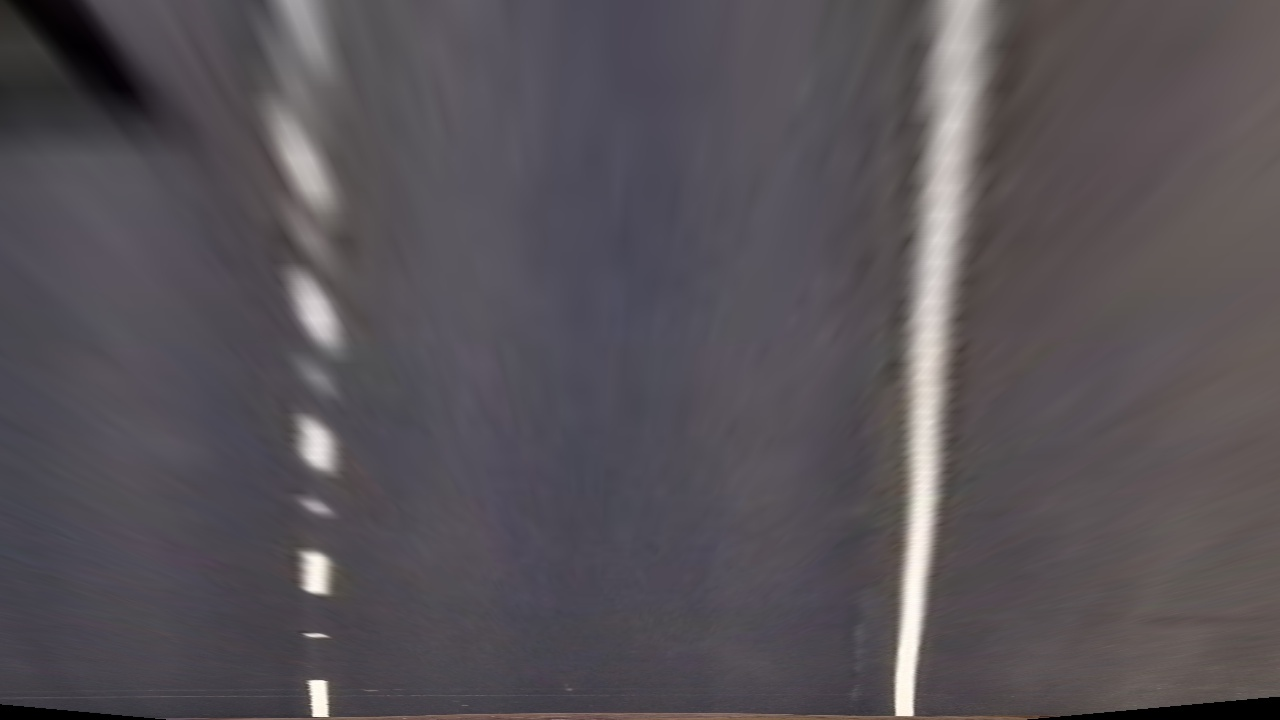
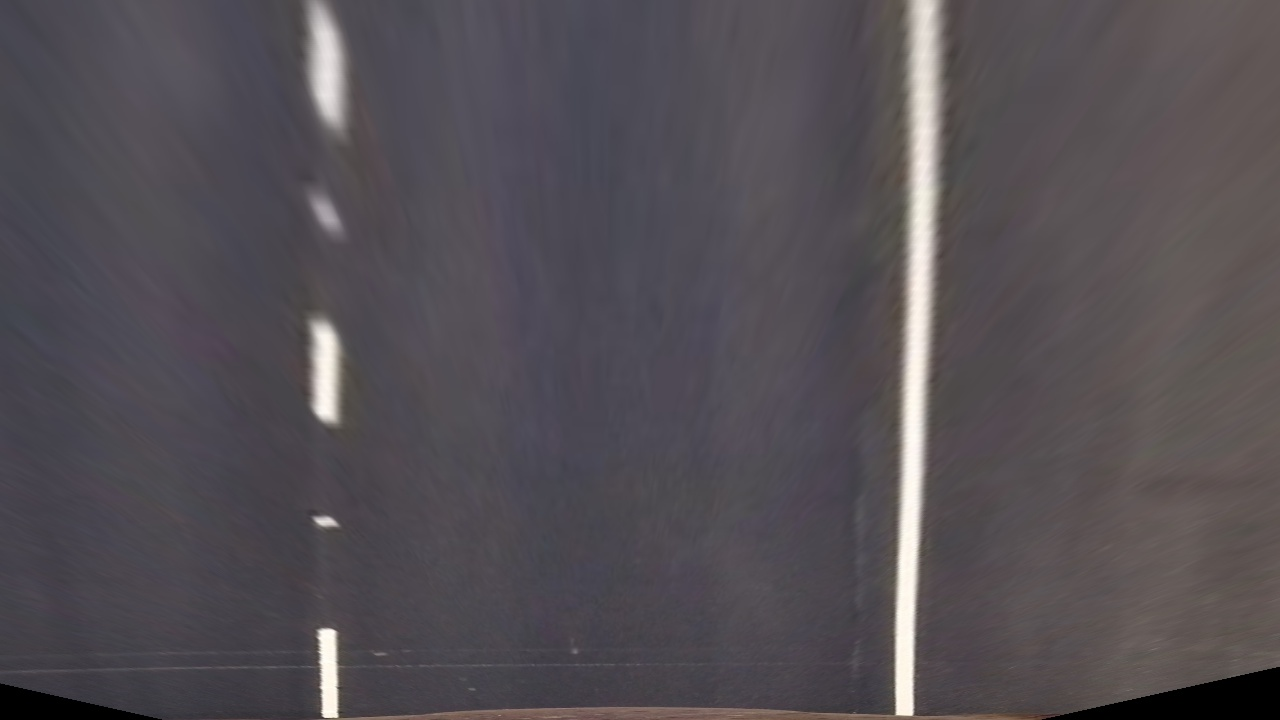
nice params

diff --git a/src/calibration.py b/src/calibration.py
@@ -120,8 +120,8 @@ def lines_unwarp(img, mtx, dist):
     c = [188, 720]
     d = [1118, 720]
 
-    #cv2.fillConvexPoly(undist, np.array([a, b, c, d]), (255, 0, 0))
-    #cv2.imwrite('../output_images/unwraped/elias.jpg', undist)
+    #cv2.fillConvexPoly(undist, np.array([a, b, d, c]), (255, 0, 0))
+    # cv2.imwrite('../output_images/unwraped/elias.jpg', undist)
 
     src = np.float32([a, b, c, d])
 
@@ -129,13 +129,14 @@ def lines_unwarp(img, mtx, dist):
     # a nice fit for displaying our warped result
     # again, not exact, but close enough for our purposes
 
-    offset = 300
-    width = 610
+    offset = 310
+    width = 600 # 610
+    height = -1000 #-250
     dst = np.float32([
-        [offset, 0],
-        [offset+width, 0],
-        [offset, 720],
-        [offset+width, 720]])
+        [offset, height],
+        [offset+width, height],
+        [offset, 725],
+        [offset+width, 725]])
 
 
     print(src)
